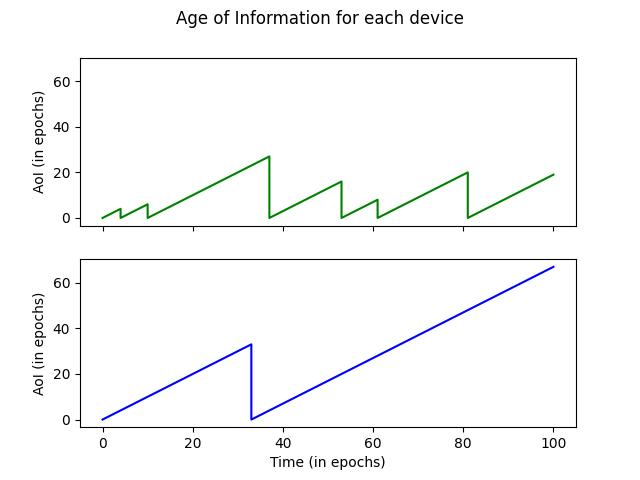
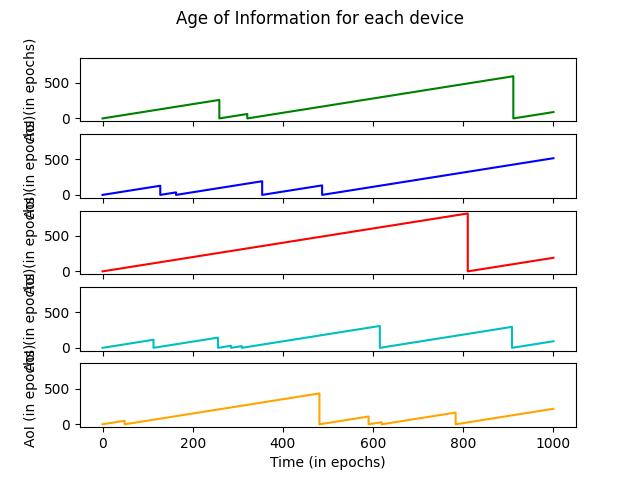
Prise en compte des p_e de chaque device dans la simulation

diff --git a/main.py b/main.py
@@ -10,8 +10,8 @@ from matplotlib.patches import Rectangle
 from celluloid import Camera
 
 #CONSTANTS
-NB_DEVICES = 5
-SIM_LIFESPAN = 100
+NB_DEVICES = 50
+SIM_LIFESPAN = 1000
 SIM_TF = 3
 ITERATIONS_ALOHA = 60
 
@@ -95,10 +95,9 @@ while(sim.isRunning):
         sim.end()
 
 #--------------------------RESULTS OF THE SIMULATION--------------------------------#
-
 results = Results(devicesList, SIM_LIFESPAN)
 results.modifyCommsHistories()
-results.plotAoIGraphs(NB_DEVICES) # Be careful with high values of NB_DEVICES !!!
+results.plotAoIGraphs(5) # Be careful with high values of NB_DEVICES !!!
 results.printResultsAoI()
 
 

diff --git a/results.py b/results.py
@@ -80,6 +80,7 @@ class Results():
     Function printing the results of the simulation
     '''
     def printResultsAoI(self):
+        print("___### Results of SIMULATION ###___")
         print("Device   Moy  Max  Min")
         moyAoI = 0
         minAoI = math.inf
@@ -107,7 +108,6 @@ class Results():
 
         X = [[] for k in range(nbDevicesToDisplay)]
         Y = [[] for k in range(nbDevicesToDisplay)]
-        #colorGraphs = {0: 'g-', 1:'b-', 2:'r-',3:'c-', 4:'k-', 5:'m-'}
         colorGraphs = {0: 'g-', 1:'b-', 2:'r-',3:'c-', 4:'orange', 5:'k-', 6:'m-'}
 
         for k in range(nbDevicesToDisplay):

diff --git a/device.py b/device.py
@@ -47,7 +47,7 @@ class Device(Aloha):
     return : [dict] package information if transmission occured, [bool] 0 if transmission didnt occur
     '''
     def transmit(self, information, target):
-        if (random.random() < 0.2): 
+        if (random.random() < self.p_e): 
             self.isActive = True
             return target.receive(self.package(self.id, information))
         else:
